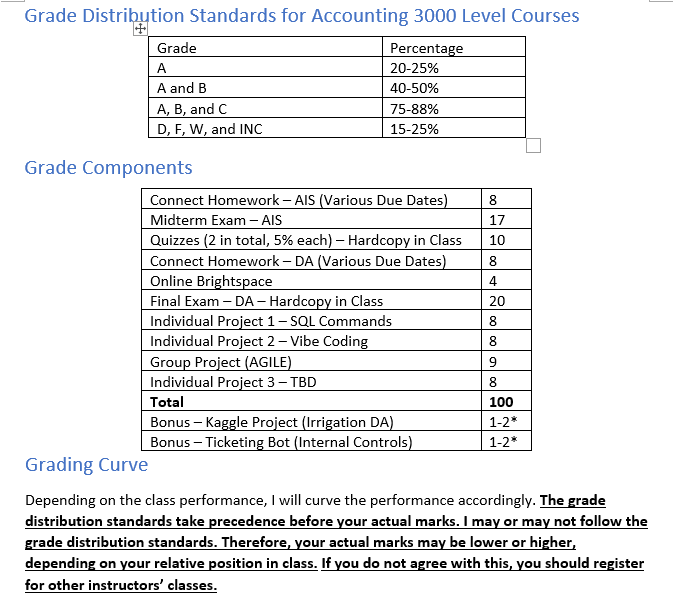
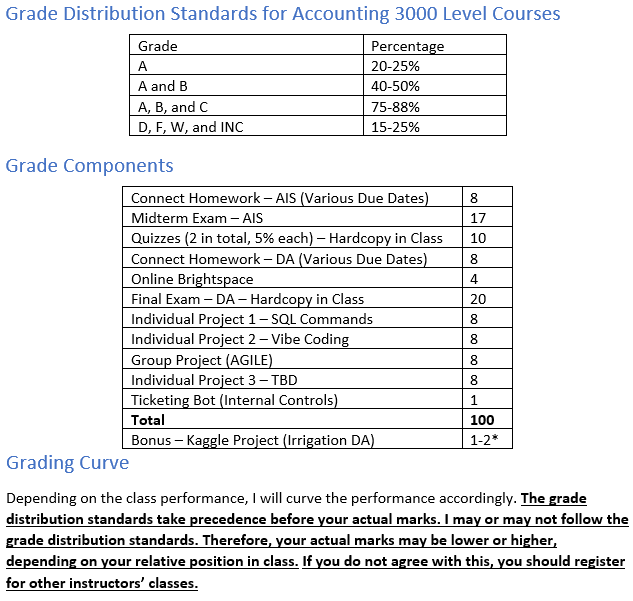
'c'

Changed region(s): [[0.0, 0.27, 0.9905, 0.99], [0.0, 0.0, 0.8705, 0.24]]

diff --git a/src/panels/Lesson1Panel.vue b/src/panels/Lesson1Panel.vue
@@ -43,7 +43,7 @@ const tabs = [
     "There are two quizzes, worth 5% each, for a total of 10%. These quizzes will be hardcopy and held in class.",
     "Individual Project 1, which focuses on SQL commands, is worth 8%. Individual Project 2, which focuses on vibe coding, is worth 8%. Individual Project 3 is also worth 8%. These projects are meant to give you hands-on practice, not just theory.",
     "The AGILE group project is worth 9%. You need to be physically present and on time for the group project class to receive credit, unless you have made arrangements with me in advance.",
-    "There may also be bonus opportunities, including the Kaggle irrigation data analytics project and the ticketing bot internal-controls exercise. These are bonus credits and should not be treated as replacements for the main course requirements.",
+    "There may also be bonus opportunities, including the Kaggle irrigation data analytics project. These are bonus credits and should not be treated as replacements for the main course requirements.",
     "The grading curve depends on class performance and the grade distribution standards for 3000-level accounting courses. Your final grade may depend on your relative position in class, not only your raw percentage. If you do not agree with this, you should consider taking another instructor's section."
 ],
   },
